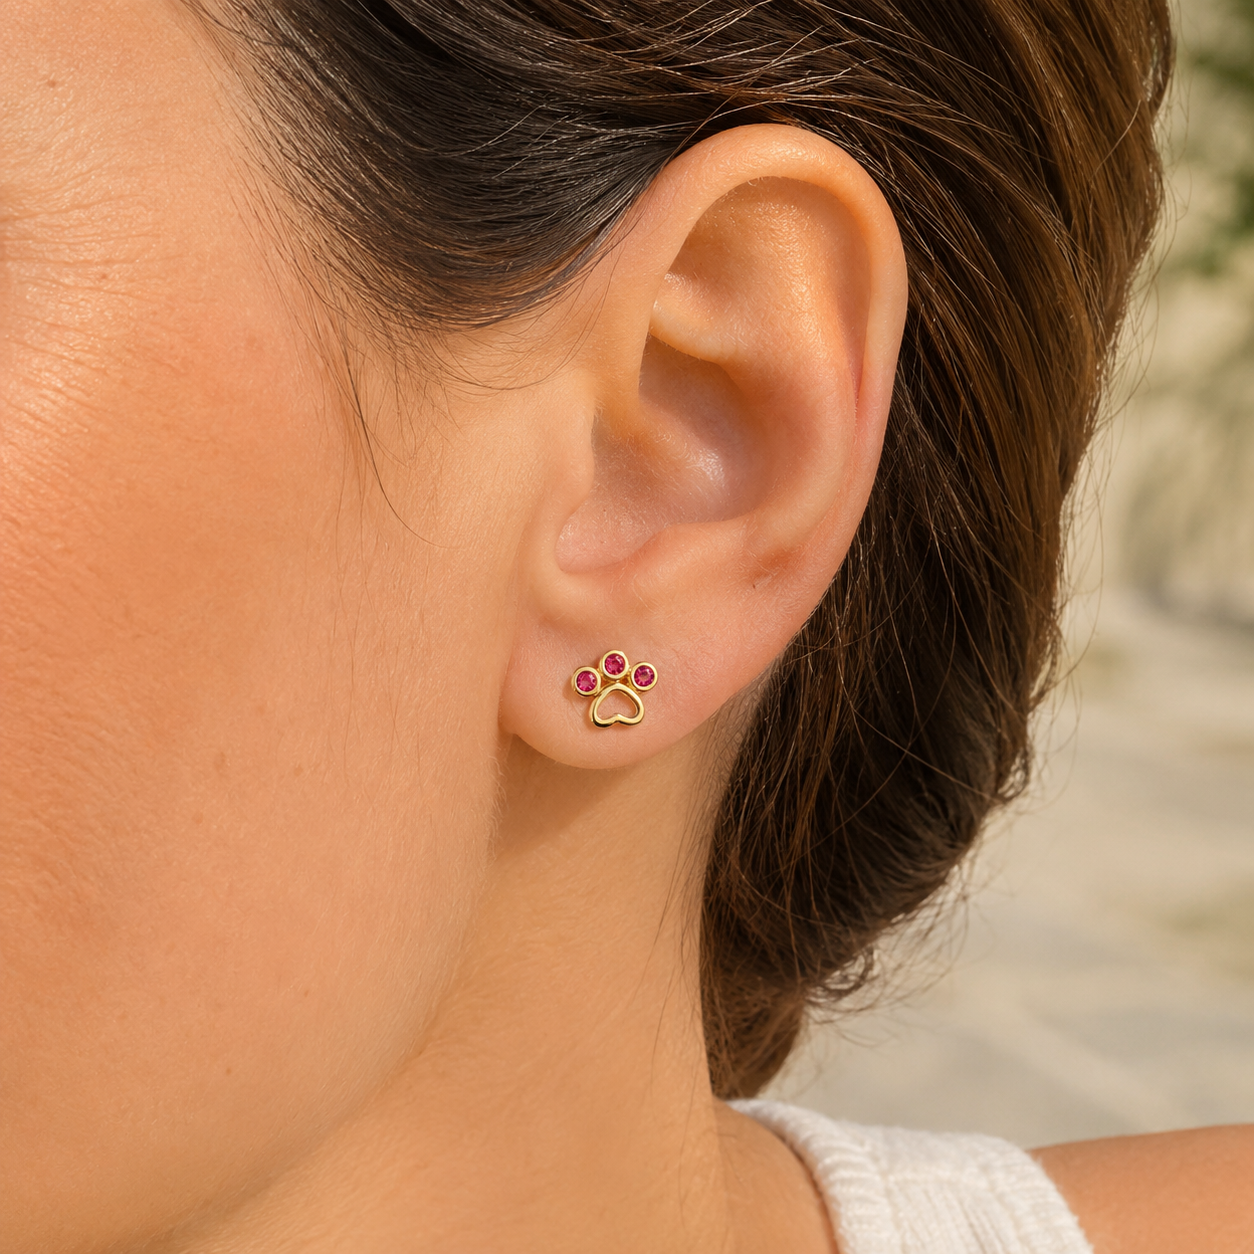
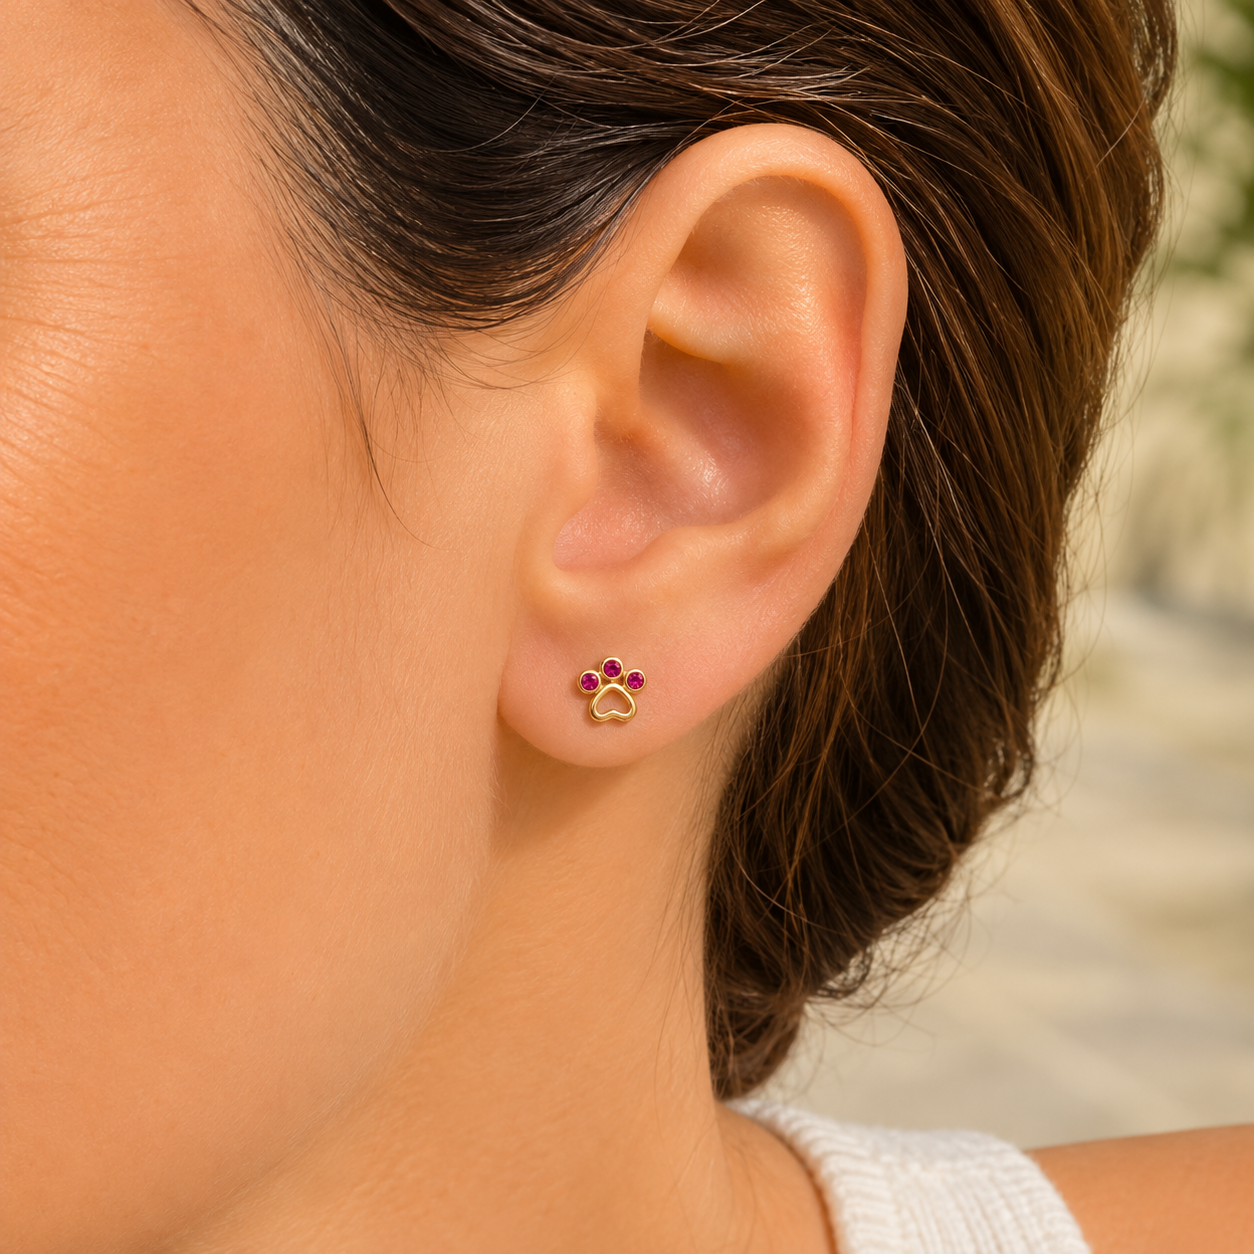
Galerias 824000516 e 824000517 (lote 18/11)
Claude-Session: https://claude.ai/code/session_01FGcuoUvX6yRPvF4ZEFNAKX

diff --git a/produtos/824000516/cotas.py b/produtos/824000516/cotas.py
@@ -1,0 +1,38 @@
+"""Cotas da posição 5 (pingentes com as medidas em cm) e textos sobre foto, padrão de 08/11/2026.
+Coordenadas no quadro de 1024 (como a base sai da IA); a saída é 1600x1600.
+Letra mínima: 40 no quadro de 1024 = 62 px no de 1600 (regra do padrao-cadastro-petmom.md).
+Nada importante a menos de 64 (1024) / 100 px (1600) da borda. No máximo poucas cotas, grandes.
+Uso: copiar para produtos/<SKU>/cotas.py, trocar as cotas do fim e rodar: python3 cotas.py base.png saida.png"""
+import sys
+from PIL import Image, ImageDraw, ImageFont
+src, dst = sys.argv[1:3]
+SS = 3  # supersampling
+im = Image.open(src).convert("RGB").resize((1024*SS, 1024*SS), Image.LANCZOS)
+d = ImageDraw.Draw(im)
+COR = (74, 64, 56)
+f = lambda size, w="Medium": ImageFont.truetype(f"/usr/share/fonts/opentype/inter/Inter-{w}.otf", int(size*SS))
+def s(*v): return [x*SS for x in v]
+LBL = 40  # tamanho mínimo das cotas (quadro de 1024)
+def hcota(x0, x1, y, label, below=True):
+    d.line(s(x0, y, x1, y), fill=COR, width=3*SS)
+    for x in (x0, x1): d.line(s(x, y-10, x, y+10), fill=COR, width=3*SS)
+    ft = f(LBL); w = d.textlength(label, font=ft)/SS
+    d.text(s((x0+x1)/2 - w/2, y+14 if below else y-56), label, font=ft, fill=COR)
+def vcota(x, y0, y1, label, left=False):
+    d.line(s(x, y0, x, y1), fill=COR, width=3*SS)
+    for y in (y0, y1): d.line(s(x-10, y, x+10, y), fill=COR, width=3*SS)
+    ft = f(LBL); w = d.textlength(label, font=ft)/SS
+    d.text(s(x-16-w if left else x+16, (y0+y1)/2 - 24), label, font=ft, fill=COR)
+def titulo(txt, y, size=54, w="SemiBold"):
+    ft = f(size, w); tw = d.textlength(txt, font=ft)/SS
+    d.text(s(512 - tw/2, y), txt, font=ft, fill=COR)
+def rotulo(txt, cx, y, size=40):
+    ft = f(size); tw = d.textlength(txt, font=ft)/SS
+    d.text(s(cx - tw/2, y), txt, font=ft, fill=COR)
+# ---- 824000516 brinco patinha coração vazado rosa (esq x243-472 y390-622; dir x545-775) ----
+titulo("Medidas", 200)
+hcota(243, 472, 665, "0,7 cm")
+vcota(805, 390, 622, "0,6 cm")
+rotulo("cada brinco · vem 1 par", 512, 785)
+# ---------------------------------------
+im.resize((1600, 1600), Image.LANCZOS).save(dst)

diff --git a/produtos/824000517/cotas.py b/produtos/824000517/cotas.py
@@ -1,0 +1,38 @@
+"""Cotas da posição 5 (pingentes com as medidas em cm) e textos sobre foto, padrão de 08/11/2026.
+Coordenadas no quadro de 1024 (como a base sai da IA); a saída é 1600x1600.
+Letra mínima: 40 no quadro de 1024 = 62 px no de 1600 (regra do padrao-cadastro-petmom.md).
+Nada importante a menos de 64 (1024) / 100 px (1600) da borda. No máximo poucas cotas, grandes.
+Uso: copiar para produtos/<SKU>/cotas.py, trocar as cotas do fim e rodar: python3 cotas.py base.png saida.png"""
+import sys
+from PIL import Image, ImageDraw, ImageFont
+src, dst = sys.argv[1:3]
+SS = 3  # supersampling
+im = Image.open(src).convert("RGB").resize((1024*SS, 1024*SS), Image.LANCZOS)
+d = ImageDraw.Draw(im)
+COR = (74, 64, 56)
+f = lambda size, w="Medium": ImageFont.truetype(f"/usr/share/fonts/opentype/inter/Inter-{w}.otf", int(size*SS))
+def s(*v): return [x*SS for x in v]
+LBL = 40  # tamanho mínimo das cotas (quadro de 1024)
+def hcota(x0, x1, y, label, below=True):
+    d.line(s(x0, y, x1, y), fill=COR, width=3*SS)
+    for x in (x0, x1): d.line(s(x, y-10, x, y+10), fill=COR, width=3*SS)
+    ft = f(LBL); w = d.textlength(label, font=ft)/SS
+    d.text(s((x0+x1)/2 - w/2, y+14 if below else y-56), label, font=ft, fill=COR)
+def vcota(x, y0, y1, label, left=False):
+    d.line(s(x, y0, x, y1), fill=COR, width=3*SS)
+    for y in (y0, y1): d.line(s(x-10, y, x+10, y), fill=COR, width=3*SS)
+    ft = f(LBL); w = d.textlength(label, font=ft)/SS
+    d.text(s(x-16-w if left else x+16, (y0+y1)/2 - 24), label, font=ft, fill=COR)
+def titulo(txt, y, size=54, w="SemiBold"):
+    ft = f(size, w); tw = d.textlength(txt, font=ft)/SS
+    d.text(s(512 - tw/2, y), txt, font=ft, fill=COR)
+def rotulo(txt, cx, y, size=40):
+    ft = f(size); tw = d.textlength(txt, font=ft)/SS
+    d.text(s(cx - tw/2, y), txt, font=ft, fill=COR)
+# ---- 824000517 brinco patinha almofada cravejada (esq x214-482 y370-610; dir x530-783) ----
+titulo("Medidas", 200)
+hcota(214, 482, 665, "1,0 cm")
+vcota(812, 370, 610, "0,8 cm")
+rotulo("cada brinco · vem 1 par", 512, 785)
+# ---------------------------------------
+im.resize((1600, 1600), Image.LANCZOS).save(dst)
